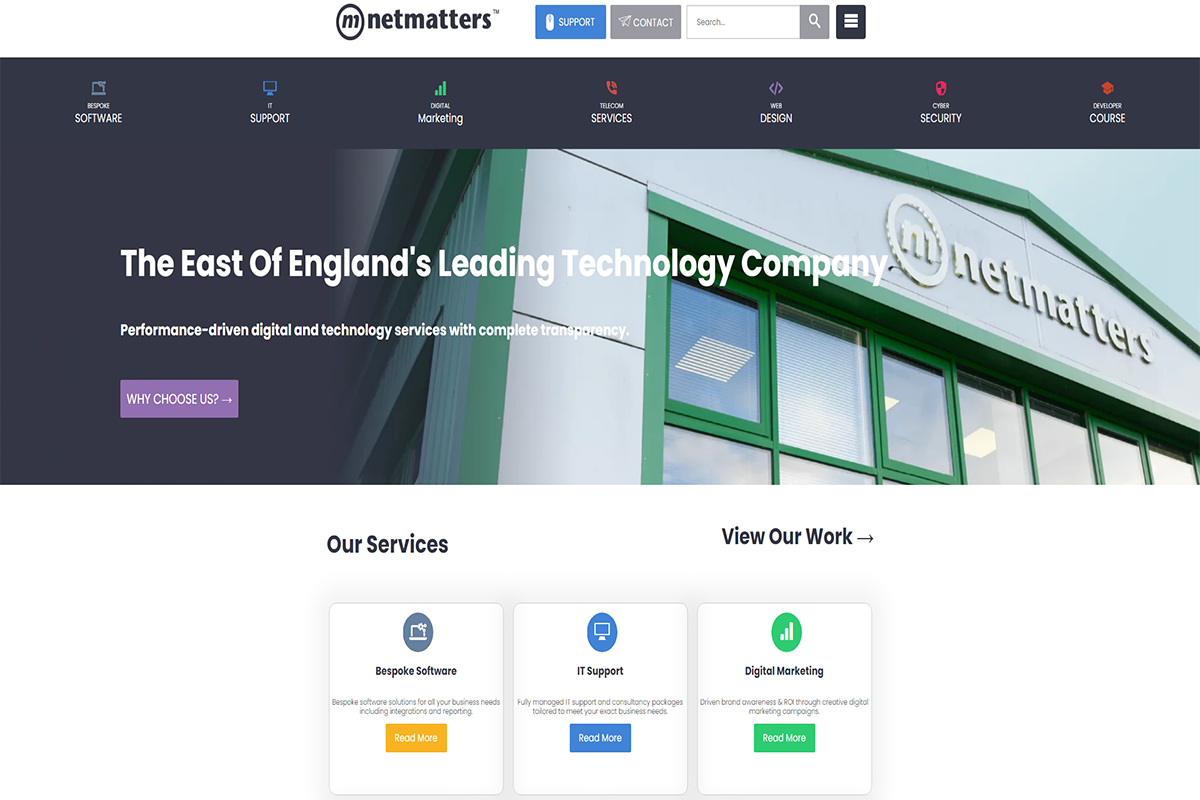
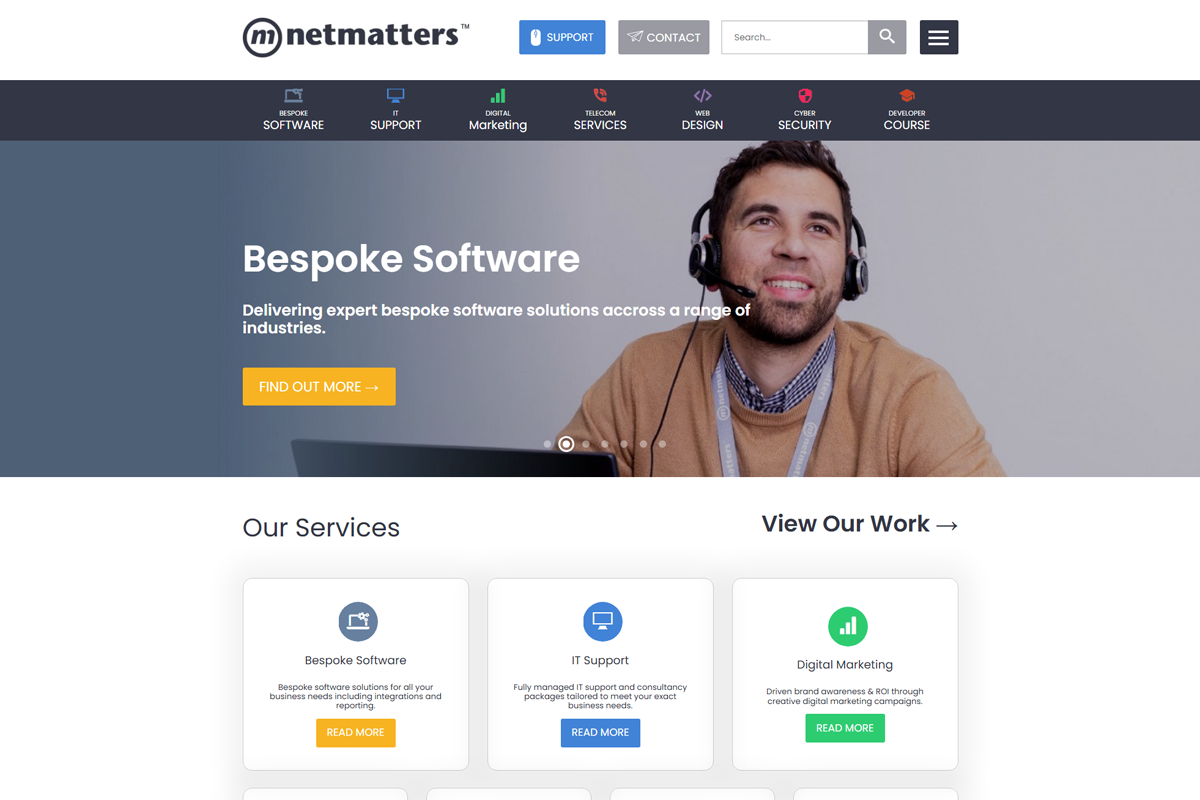
Portfolio item update
added my laravel project to the portfolio section and added an example from it to my code examples.

diff --git a/internal-pages/code-examples.php b/internal-pages/code-examples.php
@@ -47,7 +47,7 @@
             </div>
 
             <div class="exampleImage">
-                <img src="../Assets/codeExample1.PNG" alt="Code Example">
+                <img src="../Assets/codeExample1.png" alt="Code Example">
             </div>
 
             <div class="exampleDescription">
@@ -80,6 +80,20 @@
 
             <div class="exampleDescription">
                 <p>Here I used PHP to connect to a database I made in SQL. Then using the Post method, I get all the information the user has entered into the form and filter it to make sure no code can be injected in the process. Then I run validation checks to ensure the user has entered all the required information before binding the data and attaching it to an SQL statement used to send the information to the database.</p>
+            </div>
+        </div>
+
+        <div class="exampleContainer canHover">
+            <div class="exampleTitle">
+                <h3>Laravel Log In/Out Functionality</h3>
+            </div>
+
+            <div class="exampleImage">
+                <img src="../Assets/codeExample4.png" alt="Code Example">
+            </div>
+
+            <div class="exampleDescription">
+                <p>Here I made use of Laravel's built in methods to validate and handle a user's session for both log in and log out.</p>
             </div>
         </div>
 

diff --git a/index.php b/index.php
@@ -51,7 +51,7 @@
            
             <div class="projectTopSection">
                 <a href="https://netmatters.celestin-jacobs.netmatters-scs.co.uk/">
-                    <img src="Assets/netmattersHomePage.PNG" alt="netmatters home page screenshot" class="projectImg">
+                    <img src="Assets/netmattersHomePage.png" alt="netmatters home page screenshot" class="projectImg">
                 </a>
             </div>
 
@@ -106,9 +106,9 @@
             </div>
 
             <div class="projectBottomSection">
-                <h3>Project 4</h3>
+                <h3>Laravel CRUD Project</h3>
                 <div class="projectFooter">
-                    <a href=""><h4>View Project </h4></a>
+                    <a href="http://laravel.celestin-jacobs.netmatters-scs.co.uk/"><h4>View Project </h4></a>
                     <i class="fa-solid fa-right-long fa-2x arrowRight"></i>
                 </div>
             </div>
